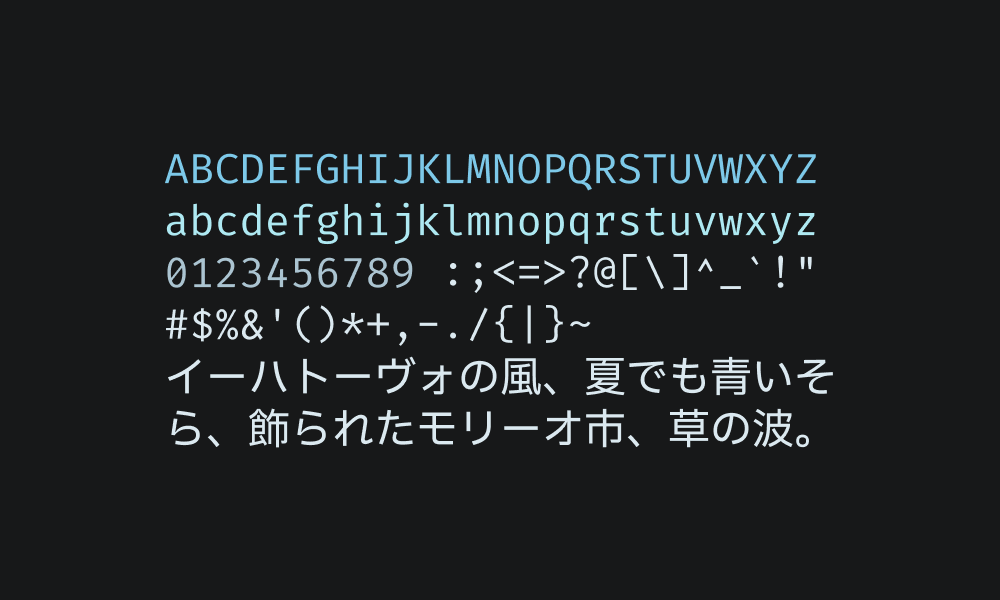
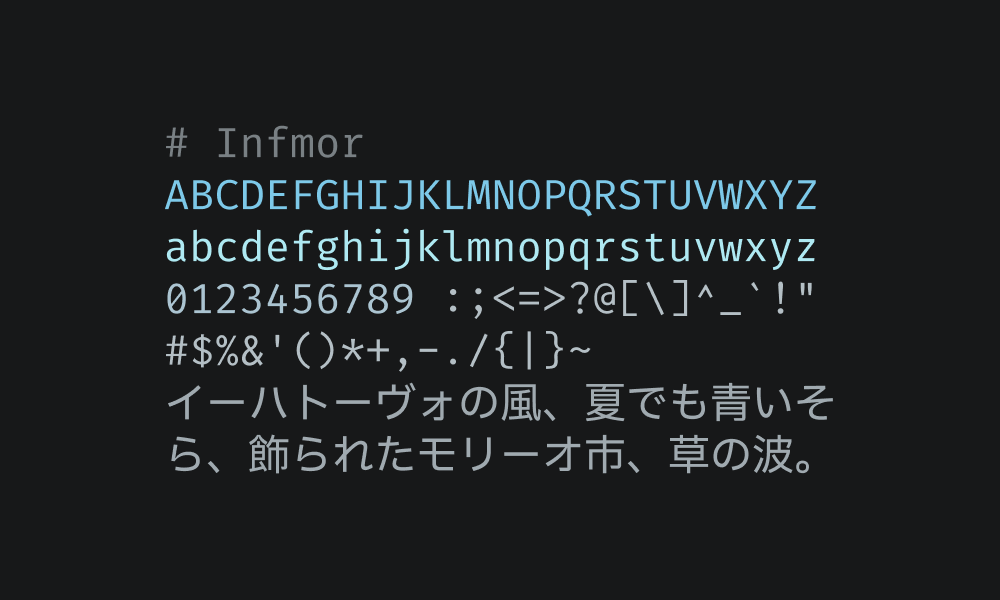
Update

Changed region(s): [[0.155, 0.21, 0.837, 0.81], [0.713, 0.51, 0.744, 0.54]]

diff --git a/README.md b/README.md
@@ -11,6 +11,7 @@ Infmor（インフモア）は、Fira Mono、Inconsolata、Moralerspaceからな
 ### 英数字はFira Mono
 
 - `0`をドット付きから斜線付きに変更
+- `r`を調整(v1.1)
 
 ### 記号はInconsolata
 
